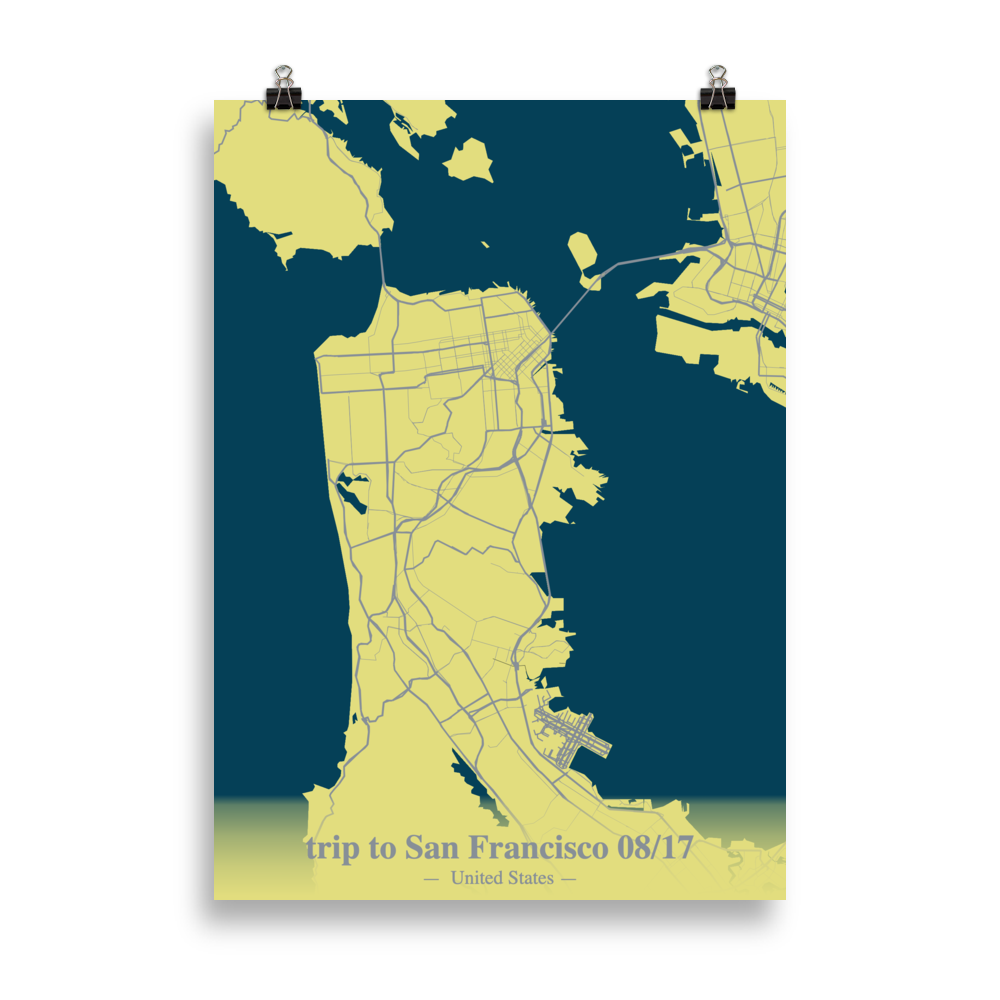
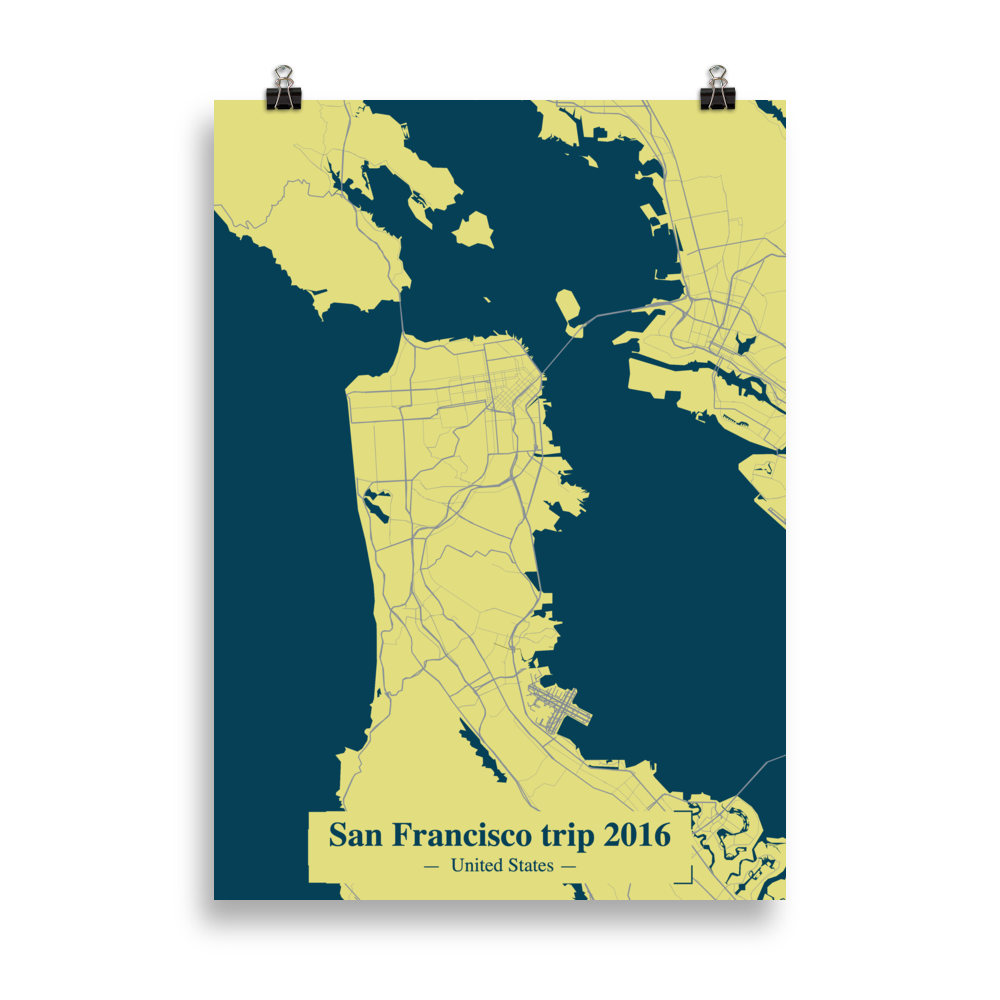
New map style

Changed region(s): [[0.217, 0.093, 0.806, 0.899], [0.217, 0.186, 0.279, 0.248], [0.744, 0.093, 0.806, 0.124]]

diff --git a/src/constants/constants.js b/src/constants/constants.js
@@ -349,12 +349,13 @@ const MAP_STYLES_NAMES = {
   BLACK_WHITE: "Black White",
   DARK_BLUE_MONOCOLOR: "Dark Blue Monocolor",
   LOW_CONTRAST_GREEN: "Low Contrast Green",
-  WHITE_BLUE: "White Blue",
+  DOUBLE_BLUE: "Double Blue",
   SANDY_DARK: "Sandy Dark",
+  WHITE_BLUE: "White Blue",
   SANDY_ORANGE_BLUE: "Sandy Orange Blue",
   WHITE_GREY: "White Grey",
-  OLD_SANDY_BROWN: "Old Sandy Brown",
   WHITE_BLUE_LOW_CONTRAST: "White Blue Low",
+  // OLD_SANDY_BROWN: "Old Sandy Brown",
   // MUSTARD_BLUE: "Mustard Blue",
 };
 
@@ -385,7 +386,7 @@ const MAP_STYLES = {
       landColor: "f7f5de",
       roadsColor: "7891ab",
       layoutColor: "f7f5de",
-      textColor: "30bcf3",
+      textColor: "7891ab",
     },
   [MAP_STYLES_NAMES.MUSTARD_BLUE]:
     // "MustardBlueLowContrast(ckolmiq3f4u9217p9v8fmln15)",
@@ -395,8 +396,8 @@ const MAP_STYLES = {
       waterColor: "32728b",
       landColor: "cbc057",
       roadsColor: "567495",
-      layoutColor: "",
-      textColor: "",
+      layoutColor: "cbc057",
+      textColor: "32728b",
     },
   // [MAP_STYLES_NAMES.DARK_BLUE]:
   // "assets/MAPS_MAPBOX/WhiteGrey/style.json",
@@ -409,18 +410,16 @@ const MAP_STYLES = {
       waterColor: "054057",
       landColor: "e2dd7e",
       roadsColor: "878f97",
-      layoutColor: "",
-      textColor: "",
+      layoutColor: "e2dd7e",
+      textColor: "054057",
     },
-  [MAP_STYLES_NAMES.OLD_SANDY_BROWN]:
-    // "OldSandyGrey(ckn0f7lbu12je17s4itrmuuh5)",
-    // "assets/MAPS_MAPBOX/OldSandyGrey(ckn0f7lbu12je17s4itrmuuh5)/style.json",
-    {
-      url: "mapbox://styles/petrhoskovec/ckn0f7lbu12je17s4itrmuuh5",
-      waterColor: "",
-      landColor: "",
-      roadsColor: "",
-    },
+  // [MAP_STYLES_NAMES.OLD_SANDY_BROWN]:
+  //   {
+  //     url: "mapbox://styles/petrhoskovec/ckn0f7lbu12je17s4itrmuuh5",
+  //     waterColor: "",
+  //     landColor: "",
+  //     roadsColor: "",
+  //   },
 
   [MAP_STYLES_NAMES.SANDY_ORANGE_BLUE]:
     // "SandyOrangeBlue(ckn0ffdn112v017jxv6ei1jnu)",
@@ -430,6 +429,8 @@ const MAP_STYLES = {
       waterColor: "",
       landColor: "",
       roadsColor: "",
+      layoutColor: "",
+      textColor: "",
     },
   [MAP_STYLES_NAMES.LOW_CONTRAST_GREEN]:
     // "LowContrastGreenBlue(ckollex8z78ly18mu9jmefwnz)",
@@ -439,8 +440,8 @@ const MAP_STYLES = {
       waterColor: "5e96c9",
       landColor: "e6d398",
       roadsColor: "", //f1eae5
-      layoutColor: "",
-      textColor: "",
+      layoutColor: "e6d398",
+      textColor: "5e96c9",
     },
   [MAP_STYLES_NAMES.BLACK_WHITE]:
     // "BlackWhite(ckpbeqdof7li518ojkwwaqrfh)",
@@ -449,8 +450,8 @@ const MAP_STYLES = {
       waterColor: "e8e7e3",
       landColor: "ffffff",
       roadsColor: "6d7378",
-      layoutColor: "",
-      textColor: "",
+      layoutColor: "ffffff",
+      textColor: "6d7378",
     },
   [MAP_STYLES_NAMES.BLACK_LAND]:
     // "BlackLand(ckpbgjjxd0phz17nzanvcr6y4)",
@@ -459,8 +460,8 @@ const MAP_STYLES = {
       waterColor: "f8f8f7",
       landColor: "050505",
       roadsColor: "f1f2f3",
-      layoutColor: "",
-      textColor: "",
+      layoutColor: "050505",
+      textColor: "f1f2f3",
     },
   [MAP_STYLES_NAMES.DARK_BLUE_MONOCOLOR]:
     // "BlackLand(ckpbgjjxd0phz17nzanvcr6y4)",
@@ -469,8 +470,18 @@ const MAP_STYLES = {
       waterColor: "162930",
       landColor: "707070",
       roadsColor: "d5d2d2",
-      layoutColor: "",
-      textColor: "",
+      layoutColor: "707070",
+      textColor: "d5d2d2",
+    },
+  [MAP_STYLES_NAMES.DOUBLE_BLUE]:
+    // "BlackLand(ckpbgjjxd0phz17nzanvcr6y4)",
+    {
+      url: "mapbox://styles/petrhoskovec/ckqzcrfq0b9am18pddrl61dto",
+      waterColor: "405cb0",
+      landColor: "20439d",
+      roadsColor: "e0e4f0",
+      layoutColor: "20439d",
+      textColor: "e0e4f0",
     },
 };
 

diff --git a/src/LibGlobal/drawLayout.js b/src/LibGlobal/drawLayout.js
@@ -80,7 +80,7 @@ export function drawLayout(
       ctx,
       paddingSize: paddingWidth * CURRENT_PIXEL_RATIO,
       layoutPaddingColorOption: layoutObj.paddingColor,
-      inheritMapStyleColor: mapStyleObject.landColor,
+      inheritMapStyleColor: mapStyleObject.layoutColor,
       elWidth: width,
       elHeight: height,
     });
@@ -98,8 +98,8 @@ export function drawLayout(
     subtitle,
     activeLayoutName,
     CURRENT_PIXEL_RATIO,
-    fillColor: mapStyleObject.landColor
-      ? `#${mapStyleObject.landColor}`
+    fillColor: mapStyleObject.layoutColor
+      ? `#${mapStyleObject.layoutColor}`
       : undefined,
     mapStyleObject,
   });
@@ -114,8 +114,8 @@ export function drawLayout(
     subtitle,
     layoutObj,
     isProductionPrint,
-    textColor: mapStyleObject.roadsColor
-      ? `#${mapStyleObject.roadsColor}`
+    textColor: mapStyleObject.textColor
+      ? `#${mapStyleObject.textColor}`
       : "black",
   });
 
@@ -124,8 +124,8 @@ export function drawLayout(
   } else if (activeLayoutName === LAYOUT_STYLE_NAMES.BOTTOM_LINE) {
     ctx.beginPath();
 
-    ctx.fillStyle = mapStyleObject.roadsColor
-      ? `#${mapStyleObject.roadsColor}`
+    ctx.fillStyle = mapStyleObject.textColor
+      ? `#${mapStyleObject.textColor}`
       : "black";
 
     ctx.fillRect(
@@ -142,8 +142,8 @@ export function drawLayout(
   } else if (activeLayoutName === LAYOUT_STYLE_NAMES.BORDER_BLUR) {
   } else if (activeLayoutName === LAYOUT_STYLE_NAMES.DOUBLE_BORDER) {
     ctx.lineWidth = 0.0015 * baseLngSide;
-    ctx.strokeStyle = mapStyleObject.roadsColor
-      ? `#${mapStyleObject.roadsColor}`
+    ctx.strokeStyle = mapStyleObject.textColor
+      ? `#${mapStyleObject.textColor}`
       : "black";
 
     const pdgDoubleKoefficient = 0.75;
@@ -283,8 +283,8 @@ function drawBottomBox({
       elHeight,
       padding,
       extraBlurAreaKoef,
-      lineColor: mapStyleObject.roadsColor
-        ? `#${mapStyleObject.roadsColor}`
+      lineColor: mapStyleObject.textColor
+        ? `#${mapStyleObject.textColor}`
         : "black",
     });
   } else if (isPaddingFromFrame) {

diff --git a/src/components/Tab2/Step4Colors.js b/src/components/Tab2/Step4Colors.js
@@ -24,6 +24,7 @@ import OldSandyGreyPNG from "assets/mapStyles/png/OldSandyGrey.png";
 import BlackWhitePNG from "assets/mapStyles/png/BlackWhite.png";
 import BlackLandPNG from "assets/mapStyles/png/BlackLand.png";
 import DarkBlueMonocolorPNG from "assets/mapStyles/png/DarkBlueMonocolor.png";
+import DoubleBluePNG from "assets/mapStyles/png/DoubleBlue.png";
 
 import NextTabBtn from "../NextTabBtn/NextTabBtn";
 
@@ -51,8 +52,8 @@ export default function Step4Colors({ activeMapStyle, setActiveMapStyle }) {
         return SandyDarkPNG;
       // case MAP_STYLES_NAMES.MUSTARD_BLUE:
       //   return displayPNG ? MustardBluePNG : MustardBlue;
-      case MAP_STYLES_NAMES.OLD_SANDY_BROWN:
-        return displayPNG ? OldSandyGreyPNG : OldSandyGrey;
+      // case MAP_STYLES_NAMES.OLD_SANDY_BROWN:
+      //   return displayPNG ? OldSandyGreyPNG : OldSandyGrey;
       case MAP_STYLES_NAMES.SANDY_ORANGE_BLUE:
         return displayPNG ? SandyOrangeBluePNG : SandyOrangeBlue;
       case MAP_STYLES_NAMES.LOW_CONTRAST_GREEN:
@@ -63,6 +64,8 @@ export default function Step4Colors({ activeMapStyle, setActiveMapStyle }) {
         return displayPNG ? BlackLandPNG : BlackLand;
       case MAP_STYLES_NAMES.DARK_BLUE_MONOCOLOR:
         return DarkBlueMonocolorPNG;
+      case MAP_STYLES_NAMES.DOUBLE_BLUE:
+        return DoubleBluePNG;
 
       default:
         return displayPNG ? LowContrastGreenBluePNG : LowContrastGreenBlue;

diff --git a/src/components/Tabs/TabsRootNew.js b/src/components/Tabs/TabsRootNew.js
@@ -68,6 +68,10 @@ export default function TabsRootNew({
     "map_wrapper_id"
   );
 
+  const { height: stepper_height, width: stepper_width } = useElementDimensions(
+    "tabs_stepper"
+  );
+
   const { dataPrintful } = useGetDataPrintful([product.variantId]);
 
   const handleChange = (newValue) => {
@@ -279,7 +283,7 @@ export default function TabsRootNew({
         {/* {isMobile && (
         <MobileTabWrap>{stepElementsMobile[activeStep]}</MobileTabWrap>
       )} */}
-        <TabContentWrap>
+        <TabContentWrap topElementsHeight={stepper_height + header_height}>
           {<>{activeStepElements[activeStepNumber]}</>}
         </TabContentWrap>
       </TabSegmentWrap>
@@ -330,7 +334,6 @@ const TabSegmentWrap = styled.div`
   flex-direction: column;
   width: 100%;
   background-color: ${color("background")};
-  // overflow: scroll;
 
   @media (max-width: 768px) {
     height: ${({ mapHeight, isWideOrientation }) =>
@@ -346,7 +349,9 @@ const TabSegmentWrap = styled.div`
 
 const TabContentWrap = styled.div`
   padding: 0px 0.7rem;
-  height: 100%;
+  height: ${({ topElementsHeight }) =>
+    `calc(100vh - ${topElementsHeight}px - 20px)`};
+  overflow: scroll;
 
   @media (max-width: 768px) {
     height: unset;

diff --git a/src/sections/studioRootContainer.js b/src/sections/studioRootContainer.js
@@ -151,9 +151,7 @@ const resizeInputs = ({
     // padding: paddingWidth,
     // textAlign,
     layout,
-    color: activeStyleObj.roadsColor
-      ? `#${activeStyleObj.roadsColor}`
-      : "black",
+    color: activeStyleObj.textColor ? `#${activeStyleObj.textColor}` : "black",
   });
   prepareTextInput({
     element: subtitleInput,
@@ -167,9 +165,7 @@ const resizeInputs = ({
     // padding: paddingWidth,
     // textAlign,
     layout,
-    color: activeStyleObj.roadsColor
-      ? `#${activeStyleObj.roadsColor}`
-      : "black",
+    color: activeStyleObj.textColor ? `#${activeStyleObj.textColor}` : "black",
   });
 };
 
@@ -233,7 +229,7 @@ export default function StudioRootContainer() {
     LAYOUT_STYLE_NAMES.ISLAND_BOX
   );
   const [activeMapStyleName, setActiveMapStyle] = useState(
-    MAP_STYLES_NAMES.LOW_CONTRAST_GREEN
+    MAP_STYLES_NAMES.DARK_BLUE_MONOCOLOR
   );
   const [mapTitles, setMapTitles] = useState({
     heading: { text: TITLES_DEFAULT[0], size: 14 },

diff --git a/src/sections/packages-options.js b/src/sections/packages-options.js
@@ -5,7 +5,7 @@ import SectionHeader from "components/section-header";
 import { IoIosCheckmarkCircle, IoIosCloseCircle } from "react-icons/io";
 import PatternBG from "assets/patternBG.png";
 import Manhattan from "assets/packages/manhattan.png";
-// import Amsterdam from "assets/packages/Amsterdam.png";
+import SanFrancicsoGrey from "assets/packages/san_francisco_grey.png";
 import SanFrancicso from "assets/packages/san_francisco.png";
 import { useGetDataPrintful } from "../Hooks/useGetDataPrintful";
 import { getPriceAlgorithm } from "../LibGlobal/priceAlgorithm/getPriceAlgorithm";
@@ -18,7 +18,7 @@ const packages = [
     priceWithUnit: "$79.99", //TODO add price
     variantId: 9357,
     buttonText: "Do STUDIA",
-    img: Manhattan,
+    img: SanFrancicsoGrey, //Manhattan,
     points: [
       {
         icon: <IoIosCheckmarkCircle />,

diff --git a/src/components/Tab2/tab2.js b/src/components/Tab2/tab2.js
@@ -81,8 +81,8 @@ export default function Tab2({
       case MAP_STYLES_NAMES.SANDY_DARK:
         return SandyDark;
       case MAP_STYLES_NAMES.MUSTARD_BLUE:
-        return MustardBlue;
-      case MAP_STYLES_NAMES.OLD_SANDY_BROWN:
+        //   return MustardBlue;
+        // case MAP_STYLES_NAMES.OLD_SANDY_BROWN:
         return OldSandyGrey;
       case MAP_STYLES_NAMES.SANDY_ORANGE_BLUE:
         return SandyOrangeBlue;

diff --git a/.next/static/chunks/webpack.js b/.next/static/chunks/webpack.js
@@ -113,7 +113,7 @@
 /******/
 /******/ 	var hotApplyOnUpdate = true;
 /******/ 	// eslint-disable-next-line no-unused-vars
-/******/ 	var hotCurrentHash = "640b4e39cbfcd65a8111";
+/******/ 	var hotCurrentHash = "52b82b6f38391412895d";
 /******/ 	var hotRequestTimeout = 10000;
 /******/ 	var hotCurrentModuleData = {};
 /******/ 	var hotCurrentChildModule;

diff --git a/src/components/Tabs/Stepper.js b/src/components/Tabs/Stepper.js
@@ -52,6 +52,7 @@ export default function Stepper({
       position="static"
       activeStep={activeStep}
       className={classes.root}
+      id="tabs_stepper"
       nextButton={
         <Button
           size="small"
